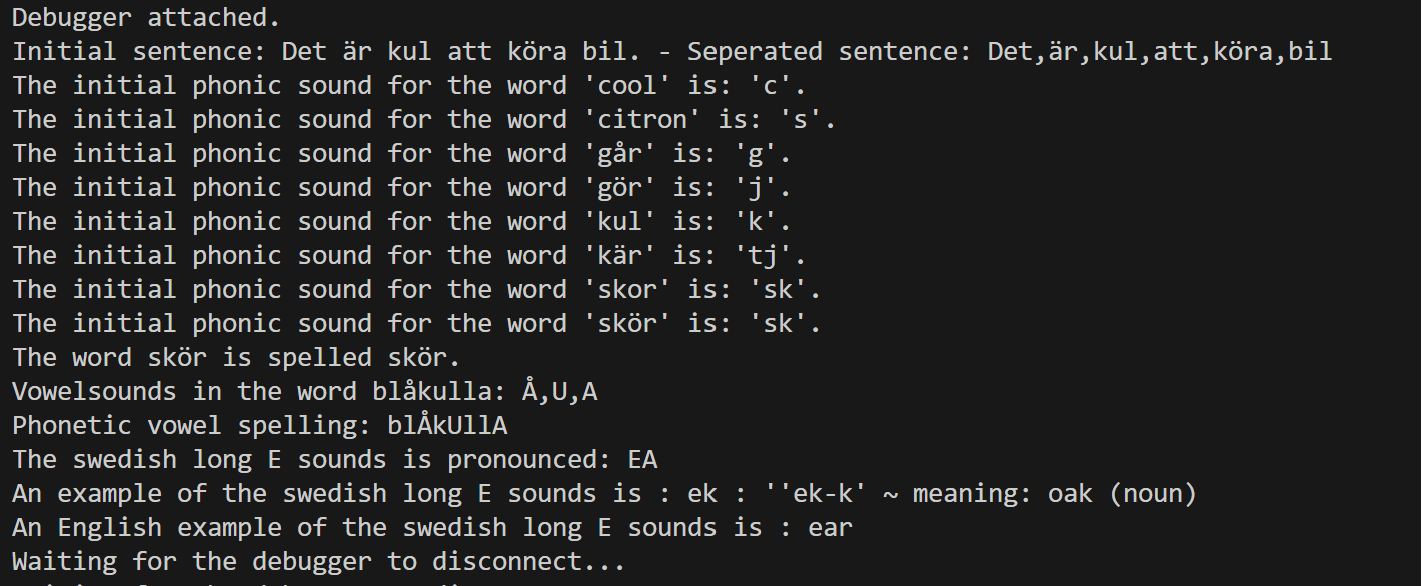
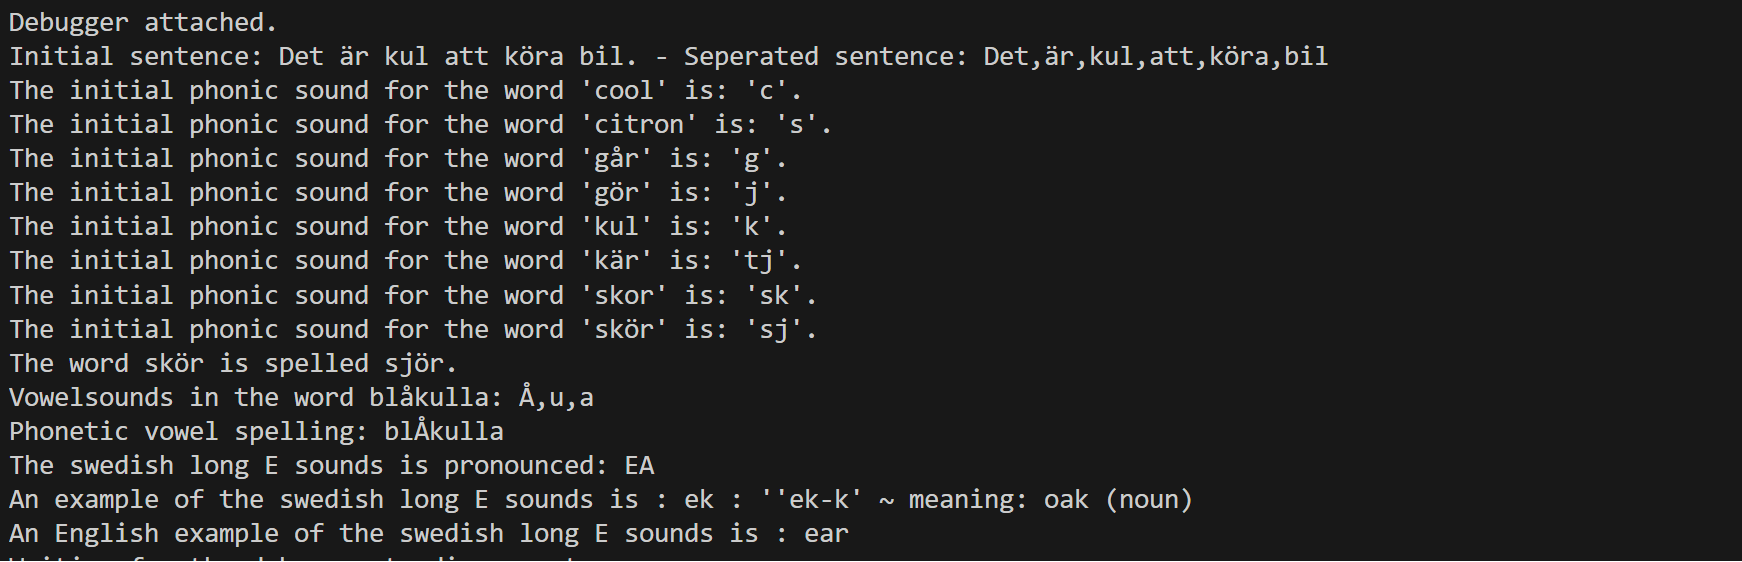
Test report added

diff --git a/test-app/test-each-method.js b/test-app/test-each-method.js
@@ -1,9 +1,9 @@
 import { SwedishPhonicsChecker } from "../src/js/swedish-phonics-module.js"
 
+const swedishPhonicsChecker = new SwedishPhonicsChecker()
+
 function testReturnAllWordsInString() {
   const sentenceToSplit = 'Det är kul att köra bil.'
-
-  const swedishPhonicsChecker = new SwedishPhonicsChecker()
   const seperatedWords = swedishPhonicsChecker.returnAllWordsInString(sentenceToSplit)
   console.log(`Initial sentence: ${sentenceToSplit} - Seperated sentence: ${seperatedWords}`)
 }
@@ -12,7 +12,6 @@ function testReturnInitialConsonantSound() {
   const wordsToTry = ['cool', 'citron', 'går', 'gör', 'kul', 'kär', 'skor', 'skör']
 
   wordsToTry.forEach((word) => {
-    const swedishPhonicsChecker = new SwedishPhonicsChecker()
     const initialPhonicSound = swedishPhonicsChecker.returnInitialConsonantSound(word)
     console.log(`The initial phonic sound for the word '${word}' is: '${initialPhonicSound}'.`)
   })
@@ -20,44 +19,43 @@ function testReturnInitialConsonantSound() {
 
 function testPhoneticConsonantSpelling() {
   const wordToSpellPhonetically = 'skör'
-  const swedishPhonicsChecker = new SwedishPhonicsChecker()
 
   const phoneticallySpelledWord = swedishPhonicsChecker.phoneticConsonantSpelling(wordToSpellPhonetically)
 
   console.log(`The word ${wordToSpellPhonetically} is spelled ${phoneticallySpelledWord}.`)
 }
 
-function testReturnAllVowelSounds () {
+function testReturnAllVowelSounds() {
   const wordToTry = 'blåkulla'
-  const swedishPhonicsChecker = new SwedishPhonicsChecker()
+
   const allVowelSounds = swedishPhonicsChecker.returnAllVowelSounds(wordToTry)
   console.log(`Vowelsounds in the word ${wordToTry}: ${allVowelSounds} `)
 }
 
-function testPhoneticVowelSpelling () {
+function testPhoneticVowelSpelling() {
   const wordToTry = 'blåkulla'
-  const swedishPhonicsChecker = new SwedishPhonicsChecker()
+
   const allVowelSounds = swedishPhonicsChecker.phoneticVowelSpelling(wordToTry)
-  console.log('Phonetic vowel spelling: ' + allVowelSounds)
+  console.log(`Phonetic vowel spelling:  ${allVowelSounds}`)
 }
 
 
-function testReturnVowelSoundExplanation () {
-  const swedishPhonicsChecker = new SwedishPhonicsChecker()
+function testReturnVowelSoundExplanation() {
   const vowelSoundExplained = swedishPhonicsChecker.returnVowelSoundExplanation('E')
-  console.log('The swedish long E sounds is pronounced: ' + vowelSoundExplained)
+  console.log(`The swedish long E sounds is pronounced:   ${vowelSoundExplained}`)
 }
 
-function testReturnVowelExample () {
-  const swedishPhonicsChecker = new SwedishPhonicsChecker()
+function testReturnVowelExample() {
   const vowelSoundExample = swedishPhonicsChecker.returnVowelExample('E')
-  console.log('An example of the swedish long E sounds is : ' + vowelSoundExample)
+
+  console.log(`An example of the swedish long E sounds is :  ${vowelSoundExample}`)
 }
 
-function testReturnVowelEnglishExample () {
-  const swedishPhonicsChecker = new SwedishPhonicsChecker()
+function testReturnVowelEnglishExample() {
   const vowelSoundEnglishExample = swedishPhonicsChecker.returnVowelEnglishExample('E')
-  console.log('An English example of the swedish long E sounds is : ' + vowelSoundEnglishExample)
+
+  console.log(`An English example of the swedish long E sounds is :  ${vowelSoundEnglishExample}`)
+
 }
 
 testReturnAllWordsInString()

diff --git a/reports/testrapport1.md b/reports/testrapport1.md
@@ -16,16 +16,17 @@ The test app consists of 8 tests, all run at the same time. Preferred method of 
 The intention is to write and run individual tests for each use case in a test app. The tests should return a desired outcome in our console. The test app will run all tests at once, but they can be commented out if the desire is to only check one at a time. More test cases can be added to the test app if more functionality needs to be tested.
 
 ### Test cases
-#### TC1 - returnAllWordsInString(input)
+#### TC1 - returnAllWordsInString()
 Use Case: Turn a string into an array of words
 
 Input: 'Det är kul att köra bil.'
 Expected output: ['Det', 'är', 'kul', 'att', 'köra', 'bil ']
 
 ##### Expected Outcome
-The string should be represented as an array with each word represented as an individual element in the console.
+The string should be represented as an array with each word represented as an individual element in the console. The test prints in the form of:
+  console.log(`Initial sentence: ${sentenceToSplit} - Seperated sentence: ${seperatedWords}`)
 
-#### TC2 - returnInitialConsonantSound(input)
+#### TC2 - returnInitialConsonantSound()
 Use Case: Return consonant sound corresponding to the spelling of the input.
 
 Input: ['cool', 'citron', 'går', 'gör', 'kul', 'kär', 'skor', 'skör']
@@ -40,16 +41,87 @@ Expected output:
     The initial phonic sound for the word skör is: 'sk'.
 
 ##### Expected Outcome
-The corresponding consonant sound of the word should be returned. The test 
+The corresponding consonant sound of the word should be returned. The test prints a string showing the word and the sound in the form of:
+    console.log(`The initial phonic sound for the word '${word}' is: '${initialPhonicSound}'.`)
 
+#### TC3 - phoneticConsonantSpelling()
+Use Case: Return input word with phonetic consonant spelling.
+
+Input: 'skör'
+Expected output: 'The word skör is spelled sjör.'
+
+##### Expected Outcome
+The intial word should be rewritten with the correct consonant sound. The test prints a string showing the word and the sound in the form of:
+  console.log(`The word ${wordToSpellPhonetically} is spelled ${phoneticallySpelledWord}.`)
+
+
+#### TC4 - returnAllVowelSounds()
+Use Case: Return array of vowel sounds identified in a word.
+
+Input: 'blåkulla'
+Expected output: ['Å', 'u', 'a']
+
+##### Expected Outcome
+The vowel sounds present in the word should be returned, where upper case represents long vowel sounds and lower case represents short vowel sounds. The test prints a string showing the word and the sound in the form of:
+  console.log(`Vowelsounds in the word ${wordToTry}: ${allVowelSounds} `)
+
+#### TC5 - phoneticVowelSpelling()
+Use Case: Return input word with phonetic vowel spelling.
+
+Input: 'blåkulla'
+Expected output: blÅkulla
+
+##### Expected Outcome
+The intial word should be rewritten with the correct vowel sound. The test prints in the form of:
+  console.log(`Phonetic vowel spelling:  ${allVowelSounds}`)
+
+  #### TC6 - returnVowelSoundExplanation()
+Use Case: Return the sound of a Swedish vowel, upper case letters give long vowel sounds, lower case give short vowel sound.
+
+Input: 'E'
+Expected output: 'EA'
+
+##### Expected Outcome
+The explanation of the vowel sound should be returned. The test prints a string showing the sound in the form of:
+  console.log(`The swedish long E sounds is pronounced:   ${vowelSoundExplained}`)
+
+#### TC7 - returnVowelExample()
+Use Case: Return a Swedish word using the specific vowel sound, upper case letters give long vowel sounds, lower case give short vowel sound.
+
+Input: 'E'
+Expected output: 'ek : 'e-k ~ meaning: oak (noun)'
+
+##### Expected Outcome
+An example of a Swedish word using the specific vowel sound should be returned. The test prints a string showing the sound in the form of:
+  console.log(`An example of the swedish long E sounds is :  ${vowelSoundExample}`)
+
+#### TC8 - returnVowelEnglishExample()
+Use Case: Return an English word using the specific vowel sound, upper case letters give long vowel sounds, lower case give short vowel sound.
+
+Input: 'E'
+Expected output: 'ear'
+
+##### Expected Outcome
+An example of an English word using the specific vowel sound should be returned. The test prints a string showing the sound in the form of:
+  console.log(`An English example of the swedish long E sounds is :  ${vowelSoundEnglishExample}`)
 
 
 ## Test Report
 
-| Test      | UC1 | UC2  |
-| --------- |:----:| :---:|
-| TC1.1     | 1/OK | 0    |
-| COVERAGE & SUCCESS   |     | 0    |
+![View Results](testImages.png)
+
+| Test               | Expected Outcome |
+|--------------------|:----------------:|
+| TC1                |       1/OK       |
+| TC2                |       1/OK       |
+| TC3                |       1/OK       |
+| TC4                |       1/OK       |
+| TC5                |       1/OK       |
+| TC6                |       1/OK       |
+| TC7                |       1/OK       |
+| TC8                |       1/OK       |
+| COVERAGE & SUCCESS |       PASS       |
 
 ### Comments
 All base methods pass fine, but error handling for entering incorrect argument types needs to be addressed.
+
